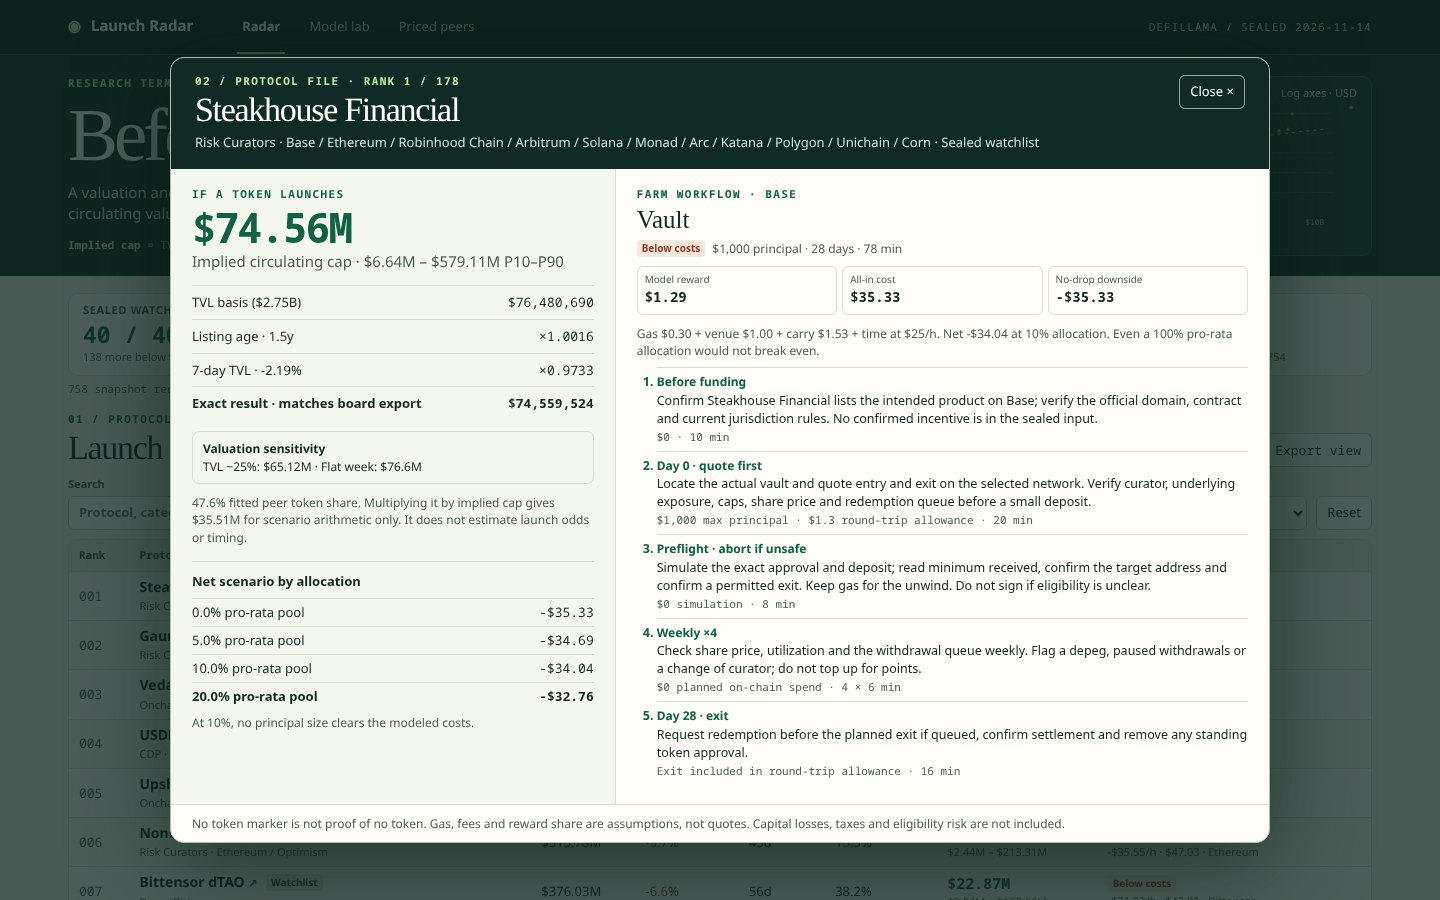
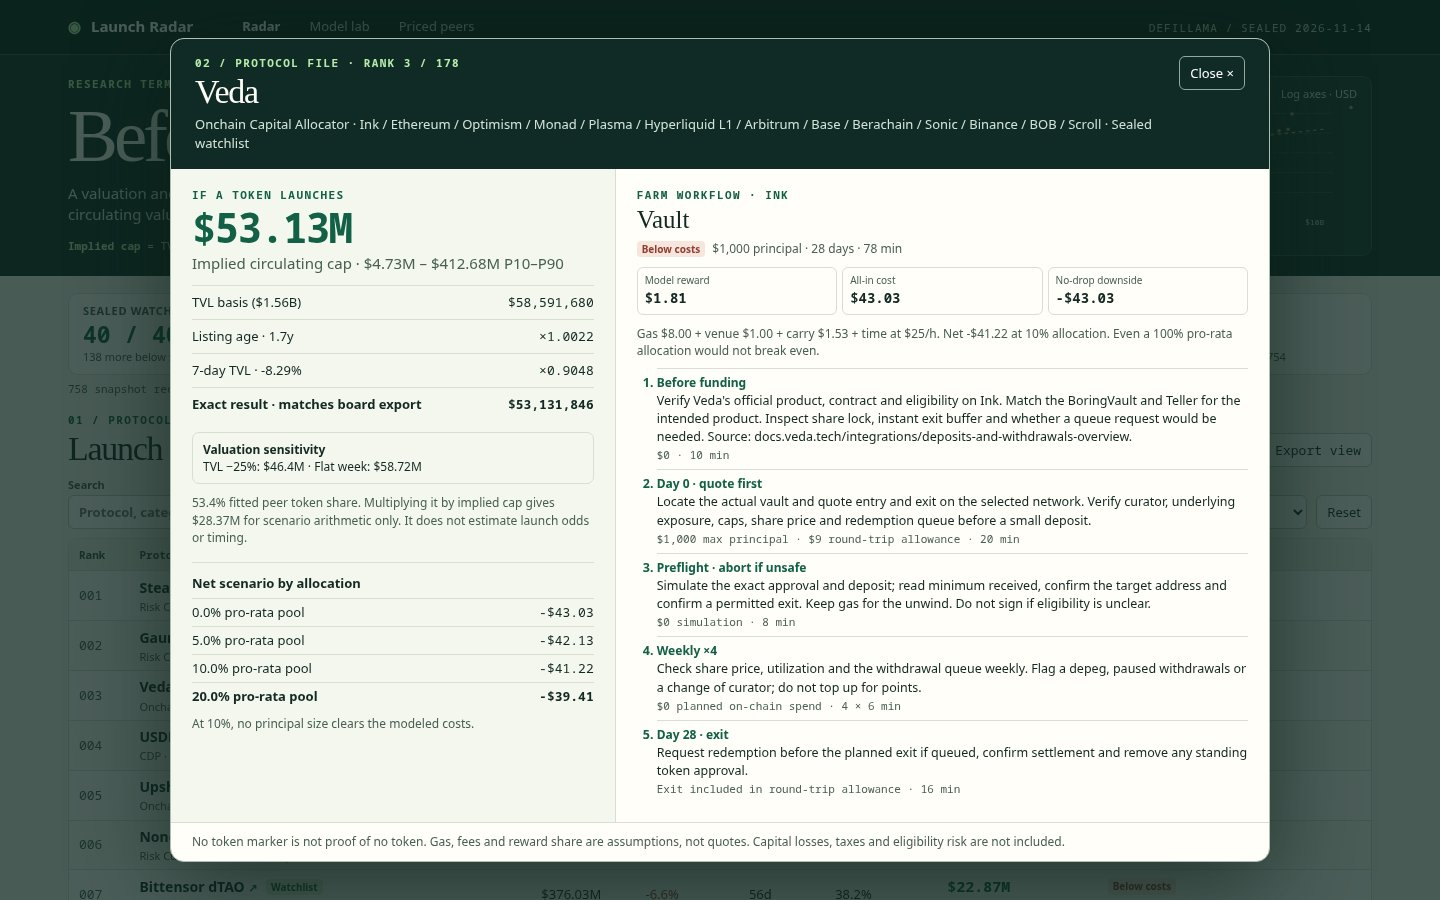
Add protocol-specific diligence to farm plans
- Ground selected workflows in official documentation for vaults, settlement and slashing.
- Allow for approvals and multi-transaction exits in cost scenarios.

diff --git a/dashboard/farm.js b/dashboard/farm.js
@@ -11,6 +11,16 @@
   const money = (n) => '$' + n.toLocaleString('en-US', { maximumFractionDigits: 2 });
   const gasPerTx = (chain) => ({ Ethereum: 6, Solana: 0.25, Bitcoin: 3, Tron: 3, Avalanche: 0.60, Base: 0.15, Arbitrum: 0.25, Optimism: 0.25, Polygon: 0.10 })[chain] ?? 2;
 
+  // Product research changes safety checks, never the valuation or eligibility.
+  const diligence = {
+    'steakhouse-financial': 'Steakhouse vault catalog: distinguish Prime Instant from High Yield Term before choosing an exit; legacy deployments are not the current product line. Source: steakhouse.financial/docs/products/vault-products/legacy-vaults.',
+    gauntlet: 'For a Morpho USDC Core route, match its curator and network in the listed market, then inspect exposure and available withdrawals. Source: docs.gauntlet.xyz/onboarding/quickstart.',
+    veda: 'Match the BoringVault and Teller for the intended product. Inspect share lock, instant exit buffer and whether a queue request would be needed. Source: docs.veda.tech/integrations/deposits-and-withdrawals-overview.',
+    upshift: 'Check whether the specific vault is atomic or epoch-based. In a queued vault, budget separately for the redemption request and the later claim. Source: docs.upshift.finance/contracts/vault-interface.',
+    symbiotic: 'Read the vault’s collateral, epoch and slashing rules. A withdrawal request is not a settled exit; do not stake based on implied cap. Source: docs.symbiotic.fi/learn/core-concepts/vault.',
+  };
+  const delayedExit = new Set(['veda', 'upshift']);
+
   // The sealed file carries no product, eligibility, fees or campaign data. A route is a
   // conditional workflow, not a claim that a certain market, asset or reward exists.
   function route(category) {
@@ -43,13 +53,15 @@
 
   /** @returns {FarmScenario} */
   function evaluate(row, ticket = DEFAULT_TICKET, dropShare = DROP_SHARE, network = '', includeSteps = true) {
-    const [name, first, review, exit, tx] = route(row.category ?? '');
+    const [name, first, review, exit, baseTx] = route(row.category ?? '');
+    const fieldNote = Object.hasOwn(diligence, row.slug) ? diligence[row.slug] : '';
+    const tx = baseTx ? baseTx + 1 + Number(delayedExit.has(row.slug)) : 0;
     const chain = row.chains.includes(network) ? network : row.chains[0] ?? 'unlisted network';
     const active = tx > 0 && row.chains.length > 0;
     const capital = active ? ticket : 0;
     const hold = active ? 28 : 0;
     const gas = active ? gasPerTx(chain) * tx : 0;
-    const feeRate = tx === 3 ? 0.003 : 0.001;
+    const feeRate = name === 'Liquidity' ? 0.003 : 0.001;
     const venue = capital * feeRate;
     const carry = capital * CAPITAL_RATE * hold / 365;
     const hours = active ? 78 / 60 : 25 / 60;
@@ -66,7 +78,7 @@
       noDrop: -cost, breakEven: drop > 0 ? dropShare * cost / drop : null,
       breakEvenCapital: breakEvenCapital !== null && breakEvenCapital <= row.tvl ? breakEvenCapital : null,
       steps: !includeSteps ? [] : [
-        ['Before funding', `Confirm ${row.name} lists the intended product on ${chain}; verify the official domain, contract and current jurisdiction rules. No confirmed incentive is in the sealed input.`, '$0', '10 min'],
+        ['Before funding', `Verify ${row.name}'s official product, contract and eligibility on ${chain}. ${fieldNote || 'No confirmed incentive is in the sealed input.'}`, '$0', '10 min'],
         [active ? 'Day 0 · quote first' : 'Before any deposit', first, active ? `${money(capital)} max principal · ${money(gas + venue)} round-trip allowance` : '$0 principal', active ? '20 min' : '10 min'],
         ...(active ? [[
           'Preflight · abort if unsafe',

diff --git a/lib/model.ts b/lib/model.ts
@@ -37,7 +37,7 @@ export interface Snapshot {
   watchlist: string[];
 }
 
-export const MODEL_VERSION = 'launch-radar/6';
+export const MODEL_VERSION = 'launch-radar/7';
 /** Every watchlist slug and the largest pre-token protocols below the floor. */
 export const BOARD_ROWS = 198;
 /** The house's flat multiple, the baseline every fitted curve has to beat. */
@@ -652,7 +652,7 @@ function valueRow(p: SnapshotProtocol, snapshot: Snapshot, fit: ValueFit, odds: 
   const launchHigh = Math.min(1e11, Math.round(launch * ratios[1]));
   const chance = Math.round(oddsFor(p, snapshot.as_of, odds) * 1e6) / 1e6;
   const expected = Math.max(1, Math.round(launch * chance));
-  const { steps, ...verdict } = farm.evaluate({ name: p.name, category: p.category, chains: p.chains, tvl: p.tvl_usd, expected });
+  const { steps, ...verdict } = farm.evaluate({ slug: p.slug, name: p.name, category: p.category, chains: p.chains, tvl: p.tvl_usd, expected });
   return {
     age,
     launch,

diff --git a/README.md b/README.md
@@ -10,6 +10,8 @@ The cap model uses a ridge-fitted TVL curve, listing age and seven-day TVL chang
 
 The peer token share is a cross-sectional statistic, not a launch probability. Farm routes show steps, selected-network costs, time and net outcomes under four allocation assumptions without implying eligibility. Research-only routes commit no principal. Export the current filter and sort as a CSV with the selected network and budget's modeled costs.
 
+Selected protocols have an additional read-only diligence check based on their public product documentation, including vault share locks, queued redemptions and slashing. Product docs never feed the valuation or establish an airdrop.
+
 ## Run it
 
 ```sh
